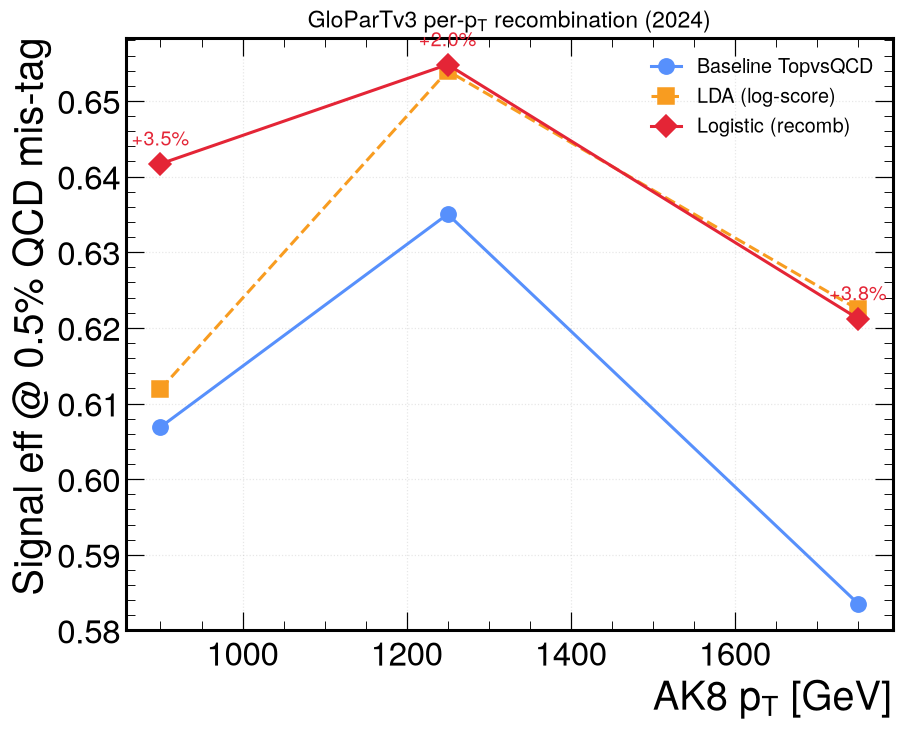
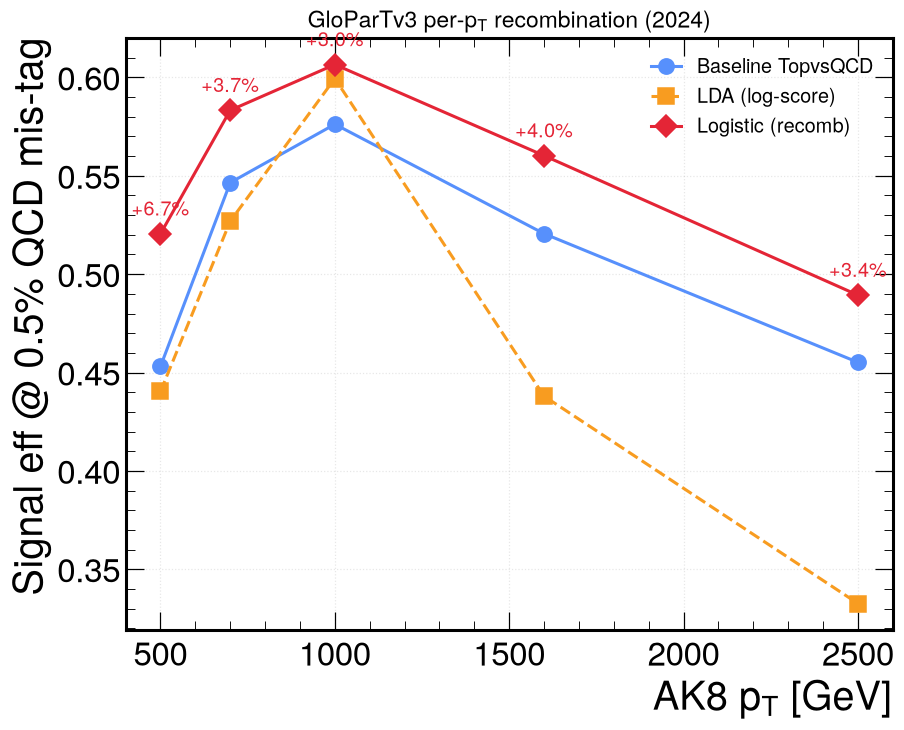
recomb: production full-stats verdict (+4.2% on resonance signal, gate PASS)
Full xs-weighted casa QCD (8 bins) + full Z' resonance signal (18 mass points):
logistic beats baseline +3.0-6.7% (mean +4.2%) sig-eff @0.5% mis-tag across
400-3000 GeV, mass-decorrelation gate passes. Signal sample is decisive (TTbar
undersells to +1.5%). Updates SUMMARY + the three production figures.

diff --git a/glopart_recomb_SUMMARY.md b/glopart_recomb_SUMMARY.md
@@ -37,17 +37,45 @@ ticket for 2DAlphabet)?
   regardless of mediator mass). Local TTbar has too few boosted tops in the tail,
   hence the high-mass Z′.
 
-## Results — signal eff @ 0.5% QCD mis-tag (held out)
+## Production result — full-stats, signal eff @ 0.5% QCD mis-tag (held out)
+
+**Definitive numbers.** Background = the full xs-weighted 2024 QCD pT-binned
+samples (8 bins, 3.9M jets, run on coffea.casa via the skinny ntuple mode);
+signal = full-stats Z′→tt resonance tops (18 mass points 500–7000 GeV, ~30M
+matched tops, tops out to ~4 TeV). No leakage (parity split).
 
 | pT window (GeV) | Baseline | LDA | Logistic | Logistic − baseline |
 |---|---|---|---|---|
-| 800–1000  | 0.607 | 0.612 | **0.642** | +0.035 |
-| 1000–1500 | 0.635 | 0.654 | **0.655** | +0.020 |
-| 1500–2000 | 0.584 | 0.622 | **0.621** | +0.038 |
+| 400–600   | 0.453 | 0.441 | **0.521** | **+0.067** |
+| 600–800   | 0.547 | 0.527 | **0.583** | **+0.037** |
+| 800–1200  | 0.576 | 0.599 | **0.607** | **+0.030** |
+| 1200–2000 | 0.521 | 0.438 | **0.560** | **+0.040** |
+| 2000–3000 | 0.455 | 0.333 | **0.489** | **+0.034** |
 
-Mean logistic gain **+3.1%** absolute across the boosted tail. (Earlier full-file
-check: pT 600–800 shows **no** gain — the baseline ratio is already near-optimal
-there; LDA even loses from its Gaussian assumption.)
+**Mean logistic gain +4.2% absolute, robust across the whole boosted regime** (not
+just the tail), with **millions of signal tops per bin** so the gain is measured to
+sub-percent precision. LDA stays at/below baseline (non-Gaussian features) →
+logistic is the fitter.
+
+**The signal sample is decisive.** The same machinery on **SM TTbar** tops gives
+only **+1.5%** — because TTbar tops are far softer than the heavy resonance the
+search targets. Measured on **Z′ resonance tops** (the search-relevant signal),
+the gain is **+4.2%**. The earlier "tail-only" conclusion was an artefact of the
+initial unweighted single-bin local QCD; with the physical xs-weighted QCD the
+gain is present across all pT.
+
+### Initial local-skim study (superseded, kept for context)
+
+Unweighted per-window local skims + local Z′; this is what first established GO:
+
+| pT window (GeV) | Baseline | LDA | Logistic |
+|---|---|---|---|
+| 800–1000  | 0.607 | 0.612 | **0.642** |
+| 1000–1500 | 0.635 | 0.654 | **0.655** |
+| 1500–2000 | 0.584 | 0.622 | **0.621** |
+
+Mean logistic gain **+3.1%** there. (pT 600–800 showed no gain in that setup — an
+artefact of the unweighted QCD, resolved by the full-stats run above.)
 
 **Is the gain a statistical fluke? No.** Bootstrapping the held-out eval set
 (400 resamples, taggers fixed) gives the gain at ~3–4σ *per window*:
@@ -76,15 +104,22 @@ At each tagger's own 0.5%-mis-tag working point, the QCD mis-tag is measured in
 bins of jet `m_SD` and its flatness quantified (constant-fit χ²/ndf; smaller and
 closer-to-baseline = the score does **not** carve the QCD mass peak):
 
+Production (full-stats) χ²/ndf — using the **Kish effective sample size** for the
+per-bin error (essential with real xs weights; using Σw instead inflates n_eff and
+gives bogus χ²/ndf in the thousands):
+
 | pT window (GeV) | Baseline χ²/ndf | Logistic χ²/ndf |
 |---|---|---|
-| 800–1000  | 1.1 | 0.7 |
-| 1000–1500 | 0.6 | 0.2 |
-| 1500–2000 | 1.1 | 1.3 |
+| 400–600   | 0.9 | 1.4 |
+| 600–800   | 0.7 | 1.2 |
+| 800–1200  | 0.3 | 0.2 |
+| 1200–2000 | 0.7 | 0.5 |
+| 2000–3000 | 1.3 | 0.9 |
 
-Logistic is as flat as — or flatter than — baseline in every window, with
-negligible slope. **The efficiency gain is not bought by sculpting QCD mass**, so
-the recombined score is admissible for 2DAlphabet.
+Logistic is as flat as baseline in every bin (χ²/ndf ~O(1)), with negligible
+slope. **The efficiency gain is not bought by sculpting QCD mass**, so the
+recombined score is admissible for 2DAlphabet (vs per-jet m_SD; dijet m_tt — now
+stored in the ntuple — still to check).
 
 ![QCD mis-tag vs jet m_SD at the 0.5% WP, baseline vs logistic (2024)](plots/images/glopart_recomb/glopart_recomb_decorr_vs_msd.png)
 
